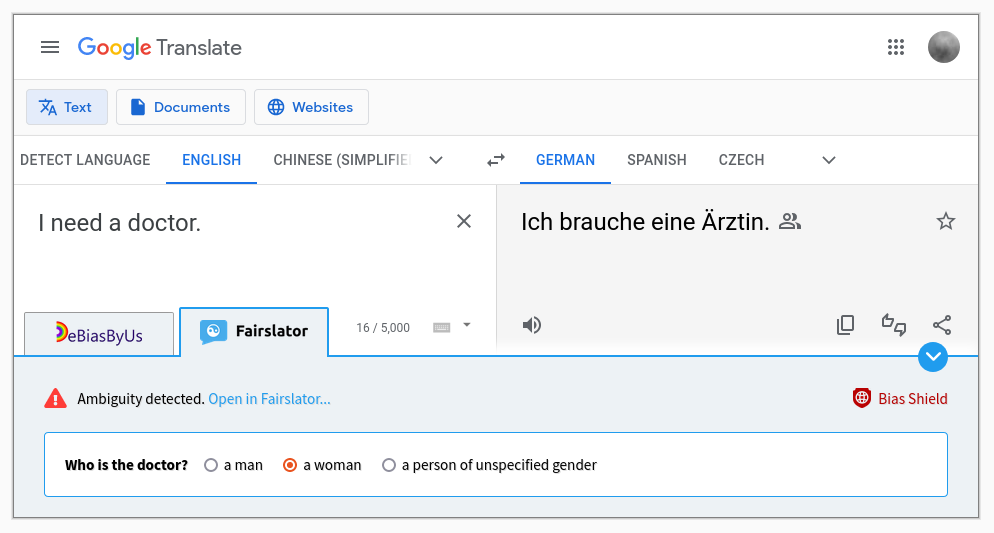
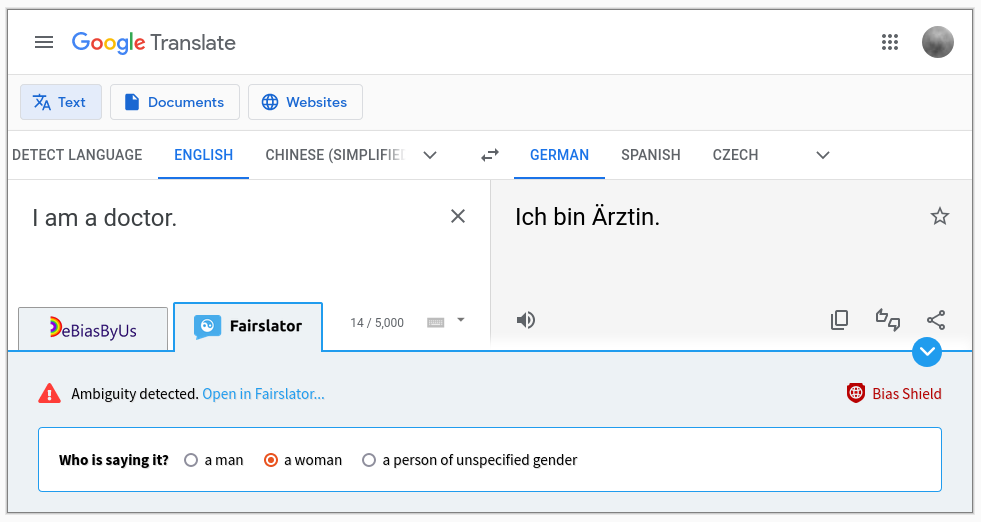
tweaks to readme

Changed region(s): [[0.0, 0.0, 1.0, 1.0], [0.5199, 0.3985, 0.8257, 0.4291], [0.4587, 0.3985, 0.4893, 0.4291]]

diff --git a/browser-extension/biasshield.js b/browser-extension/biasshield.js
@@ -47,9 +47,18 @@ const DeBiasByUs={
   unbiasedVersionIndex: 0,
   check: function(){
     window.setTimeout(function(){
-      const isBiased=(BiasShield.lastScrapeResult.srcLang=="en" && BiasShield.lastScrapeResult.srcText=="I need a doctor." && BiasShield.lastScrapeResult.trgLang=="de" && BiasShield.lastScrapeResult.trgText=="Ich brauche einen Arzt.");
-      DeBiasByUs.unbiasedVersions=["Ich brauche ärztliche Hilfe.", "Ich brauche ärztliche Behandlung."]; 
-      DeBiasByUs.unbiasedVersionIndex=0;
+      let isBiased=false;
+      //temporary fake:
+        if(BiasShield.lastScrapeResult.srcLang=="en" && BiasShield.lastScrapeResult.srcText=="I need a doctor." && BiasShield.lastScrapeResult.trgLang=="de" && BiasShield.lastScrapeResult.trgText=="Ich brauche einen Arzt."){
+          isBiased=true;
+          DeBiasByUs.unbiasedVersions=["Ich brauche ärztliche Hilfe.", "Ich brauche ärztliche Behandlung."]; 
+          DeBiasByUs.unbiasedVersionIndex=0;
+        }
+        if(BiasShield.lastScrapeResult.srcLang=="en" && BiasShield.lastScrapeResult.srcText=="I am a doctor." && BiasShield.lastScrapeResult.trgLang=="de" && BiasShield.lastScrapeResult.trgText=="Ich bin Arzt."){
+          isBiased=true;
+          DeBiasByUs.unbiasedVersions=["Ich bin ärztliche Fachkraft."]; 
+          DeBiasByUs.unbiasedVersionIndex=0;
+        }
       if(isBiased) {
         BiasShield.setState("debiasbyus", "alreadyReported", true);
         BiasShield.el.querySelector("span.unbias").style.display="inline";
